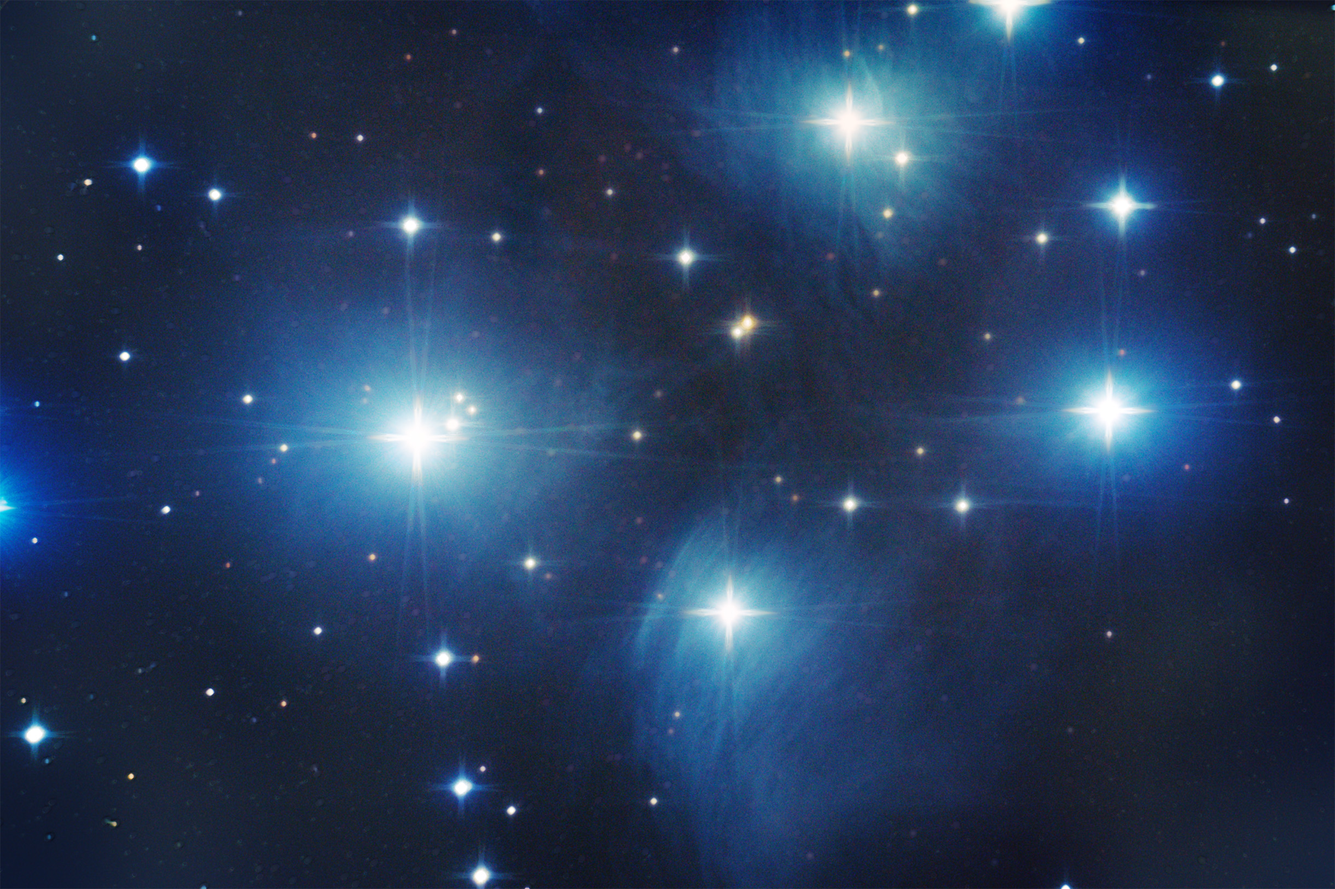
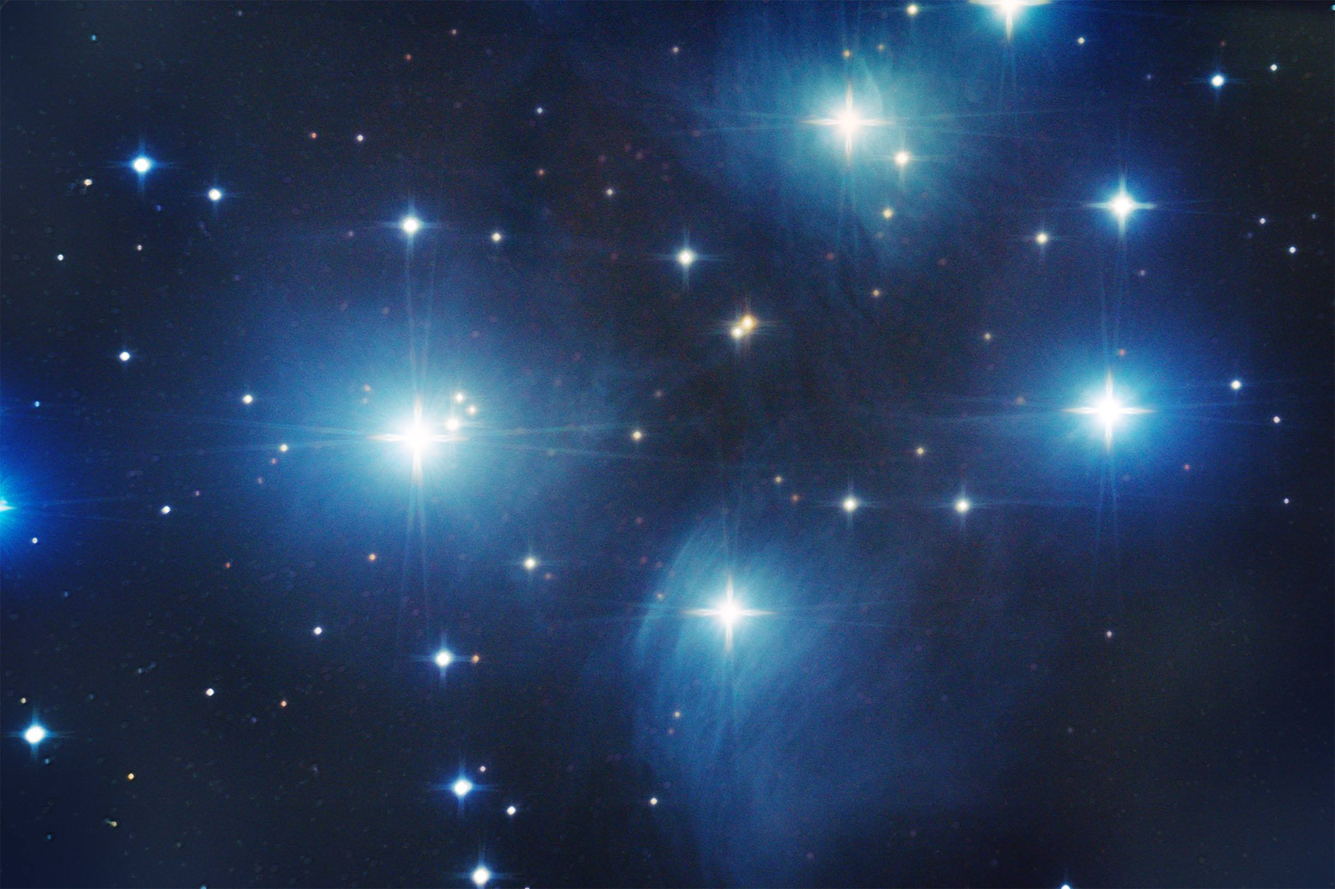
Compressed images and updated README

diff --git a/README.md b/README.md
@@ -7,3 +7,5 @@ DSO Finder is a little website for seaching astronomical objects by name/coordin
 
 ## Sources
 Powered by <a href="https://api.arcsecond.io/?/">arcsecond.io</a>, <a href="http://skyserver.sdss.org/dr12/en/help/docs/api.aspx#imgcutout">SDSS SkyServer</a> and <a href="http://archive.eso.org/dss/dss">ESO DSS Archive</a>.
+
+Background images are from various observatories, these images were processed by <a href="https://www.facebook.com/KarolAstro">Karol Masztalerz</a>. Image of the Moon was taken by me. 
